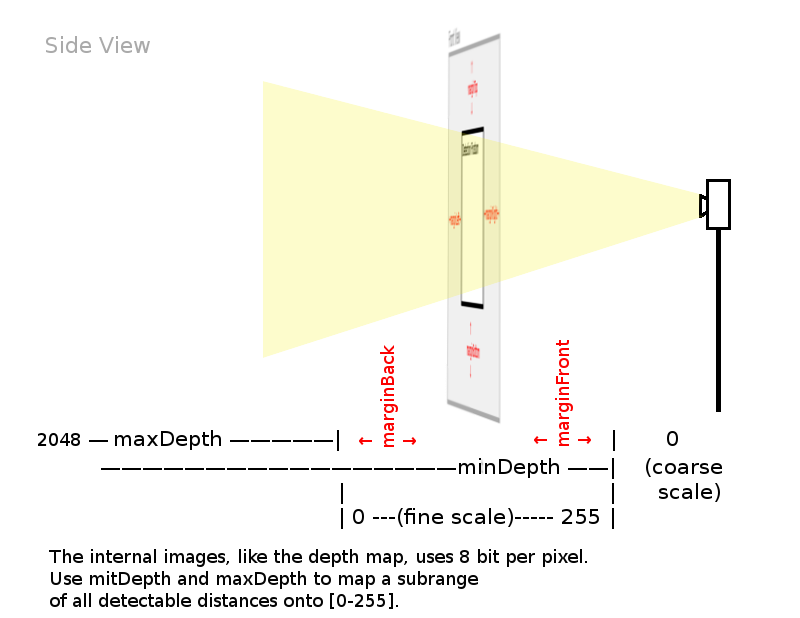
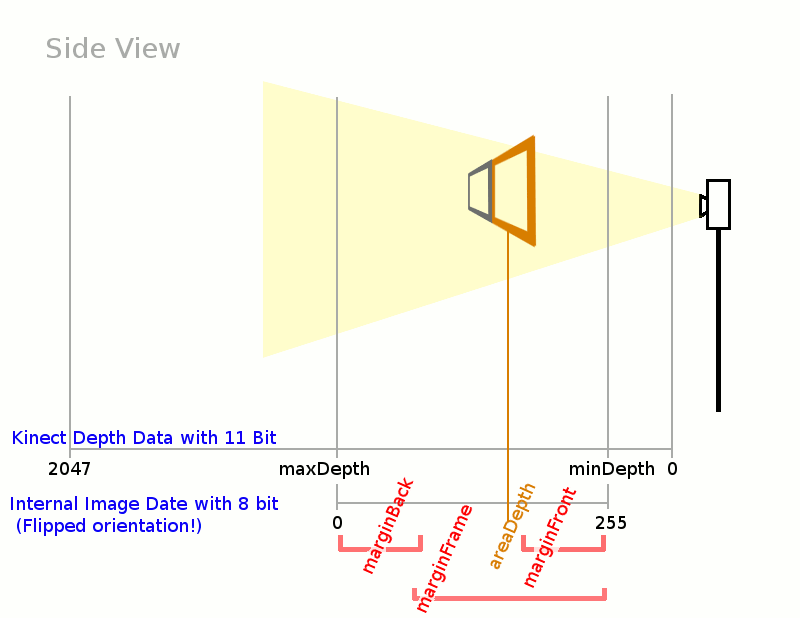
Split marginFront into two values: 1. marginFrame: Value will be used to evaluate binary image of frame. This was the previous use of arginFront, but named badly. 2. marginFront: Now selects the layer which will be interpreted as maximal depth. (On the small 0-255-range.)

diff --git a/html/index.html b/html/index.html
@@ -80,6 +80,7 @@ $(function(){
 			<div class="prop" id="marginBottom"></div>
 			<div class="prop" id="marginFront"></div>
 			<div class="prop" id="marginBack"></div>
+			<div class="prop" id="marginFrame"></div>
 			<div class="prop" id="TUIO_2Dcur"></div>
 			<div class="prop" id="TUIO_25Dblb"></div>
 			<div class="prop" id="areaThresh"></div>
@@ -130,10 +131,10 @@ $(function(){
 			</li>
 			<li>Use <i>margin[Left|Top|Right|Bottom]</i> to crop image.
 			</li>
-			<li>Select front mask image
+			<li>Select frame mask image
 			<ol>
 				<li>Select frame mask view (press '5')</li>
-				<li>Raise <i>marginFront</i> till the frame is white and all other parts still black.</li>
+				<li>Raise <i>marginFrame</i> till the frame is white and all other parts still black.</li>
 			</ol>
 			This black/white-image will used to find the 'holes' of your frame. Ensure that the areas are full enclosed.
 			</li>
@@ -144,6 +145,7 @@ $(function(){
 				</li>
 				<li>If the option <i>areaThresh</i> is enabled, the depth mask inside an area depends by its border pixel distances.</li>
 			</ol>
+			<li>Optionally increase <i>marginFront</i> to shrink the range [0+marginBack, 255-marginFront] which will be mapped on [0,1] in the 2.5D TUIO messages.
 			</li>
 			<li>Save Configuration</li>
 		</ol>

diff --git a/src/MyTuioServer25D.cpp b/src/MyTuioServer25D.cpp
@@ -6,7 +6,9 @@ inline long tuioSessionId(cBlob* b){
 		return 1000*b->areaid+b->handid;
 }
 
-static void localCoords(cBlob *pb, Area* pa, cv::Rect* roi, float *lx, float *ly, float *lz){
+static void localCoords(cBlob *pb, Area* pa,
+int minDepth, int maxDepth,
+cv::Rect* roi, float *lx, float *ly, float *lz){
 	//printf("Vars: (%f - (%i-%i))  / %i\n", pb->location.x, pa->rect.x, roi->x, pa->rect.width);
 	float x,y,z;
 	/*hflip coords. Where is the efficient position for flipping the whole input? convertTo? Is flip() fast?*/
@@ -23,10 +25,15 @@ static void localCoords(cBlob *pb, Area* pa, cv::Rect* roi, float *lx, float *ly
 			*ly = min((y+1)/2, 0.99999f);
 
 	/* Depth */
-	z = (pb->location.z - pa->depth)/25.0f/*100.0*/;
+	//z = (pb->location.z - pa->depth)/25.0f/*100.0*/;
+	const float m = max(minDepth,pa->depth);
+	const float S = max(1.0f, maxDepth-m);
+	z = (pb->location.z - m )/S;
+
 	*lz = (z<0)?0:((z<1)?z:0.99999f);
 }
-void MyTuioServer25D::send_blobs(std::vector<cBlob>& blobs, std::vector<Area>& areas, cv::Rect& roi){
+
+void MyTuioServer25D::send_blobs(std::vector<cBlob>& blobs, std::vector<Area>& areas, cv::Rect& roi, int minDepth, int maxDepth){
 
 	currentTime = TuioTime::getSessionTime();
 	initFrame(currentTime);
@@ -49,7 +56,7 @@ void MyTuioServer25D::send_blobs(std::vector<cBlob>& blobs, std::vector<Area>& a
 				break;
 			case BLOB_DOWN:
 				{
-					localCoords(pb,pa,&roi,&lx,&ly,&lz);
+					localCoords(pb, pa, minDepth, maxDepth, &roi, &lx, &ly, &lz);
 					//assert( pb->cursor25D == NULL );
 					if( pb->cursor25D == NULL ){
 						pb->cursor25D = addTuioCursor(lx,ly,lz,tuioSessionId(pb));
@@ -63,7 +70,7 @@ void MyTuioServer25D::send_blobs(std::vector<cBlob>& blobs, std::vector<Area>& a
 			case BLOB_MOVE:
 			default:
 				{
-					localCoords(pb,pa,&roi,&lx,&ly,&lz);
+					localCoords(pb, pa, minDepth, maxDepth, &roi, &lx, &ly, &lz);
 					//assert( pb->cursor25D != NULL );
 					if( pb->cursor25D == NULL ){
 						//printf("(2)Add cursor25D %i \n", (int)tuioSessionId(pb));

diff --git a/src/SettingKinect.cpp b/src/SettingKinect.cpp
@@ -92,6 +92,8 @@ cJSON *SettingKinect::genJson()
 				m_kinectProp.marginFront,0,255,100) );
 	cJSON_AddItemToArray(html, jsonIntField("marginBack",
 				m_kinectProp.marginBack,0,255,100) );
+	cJSON_AddItemToArray(html, jsonIntField("marginFrame",
+				m_kinectProp.marginFrame,0,255,100) );
 	cJSON_AddItemToArray(html, jsonCheckbox("TUIO_2Dcur",
 				m_tuioProtocols[0]) );
 	cJSON_AddItemToArray(html, jsonCheckbox("TUIO_25Dblb",
@@ -146,6 +148,7 @@ void SettingKinect::loadDefaults()
 	m_kinectProp.marginBottom=0;
 	m_kinectProp.marginFront=0;
 	m_kinectProp.marginBack=0;
+	m_kinectProp.marginFrame=128;
 	m_kinectProp.areaThresh = false;
 	m_kinectProp.directFiltering = false;
 	m_kinectProp.clipping = true;
@@ -214,6 +217,7 @@ int SettingKinect::update(cJSON *jsonNew, cJSON *jsonOld, int changes){
 		if( JsonConfig::update(nhtml,ohtml,"marginBottom",&m_kinectProp.marginBottom) ) changes|=MARGIN;
 		if( JsonConfig::update(nhtml,ohtml,"marginFront",&m_kinectProp.marginFront) ) changes|=MARGIN|FRONT_MASK;
 		if( JsonConfig::update(nhtml,ohtml,"marginBack",&m_kinectProp.marginBack) ) changes|=BACK_MASK;
+		if( JsonConfig::update(nhtml,ohtml,"marginFrame",&m_kinectProp.marginFrame) ) changes|=MARGIN|FRONT_MASK;
 
 		if( JsonConfig::updateCheckbox(nhtml,ohtml,"TUIO_2Dcur",&m_tuioProtocols[0]) ) changes|=TUIO_PROTOCOL;
 		if( JsonConfig::updateCheckbox(nhtml,ohtml,"TUIO_25Dblb",&m_tuioProtocols[1]) ) changes|=TUIO_PROTOCOL;

diff --git a/include/MyTuioServer25D.h b/include/MyTuioServer25D.h
@@ -14,28 +14,28 @@ using namespace TUIO;
 
 class MyTuioServer25D: public TuioServer25D {
 	public:
-		MyTuioServer25D(const char *host, int port): TuioServer25D(host, port), verbose(false){
-			verbose = true;
+		MyTuioServer25D(const char *host, int port): TuioServer25D(host, port){
 			currentTime = TuioTime::getSessionTime();
-			//tuioServer->enablePeriodicMessages();
+			//enablePeriodicMessages();
 			disablePeriodicMessages();
 		};
-		MyTuioServer25D(): TuioServer25D(), verbose(false){
-			verbose = true;
+		MyTuioServer25D(): TuioServer25D(){
 			currentTime = TuioTime::getSessionTime();
-			//tuioServer->enablePeriodicMessages();
+			//enablePeriodicMessages();
 			disablePeriodicMessages();
 		};
 		~MyTuioServer25D() { };
-		void send_blobs(std::vector<cBlob>& blobs, std::vector<Area>& areas, cv::Rect& roi);
+		/* minDepth and maxDepth:
+		 *    Controls scaling of depth values. 
+		 *    Normalization (mapping on [0,1) will be applied on
+		 *    [max(minDepth,area.depth), maxDepth).
+		*/
+		void send_blobs(std::vector<cBlob>& blobs, std::vector<Area>& areas, cv::Rect& roi, int minDepth=0, int maxDepth=255);
 
 private:
 		TuioCursor25D *cursor;
 		TuioTime currentTime;
-		bool verbose;
-
 		//void processEvents();
-
 };
 
 #endif

diff --git a/include/MyTuioServer.h b/include/MyTuioServer.h
@@ -14,15 +14,15 @@ using namespace TUIO;
 
 class MyTuioServer: public TuioServer {
 	public:
-		MyTuioServer(const char *host, int port): TuioServer(host, port), verbose(false){
-			verbose = true;
+		MyTuioServer(const char *host, int port): TuioServer(host, port){
 			currentTime = TuioTime::getSessionTime();
-			//tuioServer->enablePeriodicMessages();
+			//enablePeriodicMessages();
+			disablePeriodicMessages();
 		};
-		MyTuioServer(): TuioServer(), verbose(false){
-			verbose = true;
+		MyTuioServer(): TuioServer(){
 			currentTime = TuioTime::getSessionTime();
-			//tuioServer->enablePeriodicMessages();
+			//enablePeriodicMessages();
+			disablePeriodicMessages();
 		};
 		~MyTuioServer() { };
 		void send_blobs(std::vector<cBlob>& blobs, std::vector<Area>& areas, cv::Rect& roi);
@@ -30,10 +30,7 @@ class MyTuioServer: public TuioServer {
 private:
 		TuioCursor *cursor;
 		TuioTime currentTime;
-		bool verbose;
-
 		//void processEvents();
-
 };
 
 #endif

diff --git a/src/ImageAnalysis.cpp b/src/ImageAnalysis.cpp
@@ -299,9 +299,9 @@ void ImageAnalysis::genFrontMask(){
 		Mat Kernel2(Size(7, 7), CV_8UC1); Kernel2.setTo(Scalar(1));
 		dilate(dfRoi, tmp, Kernel); 
 		erode(tmp, tmp, Kernel2); 
-		//threshold(dfRoi, dfRoi,255-m_pSettingKinect->m_kinectProp.marginFront,255,THRESH_BINARY);
+		//threshold(dfRoi, dfRoi,255-m_pSettingKinect->m_kinectProp.marginFrame,255,THRESH_BINARY);
 		//agRoi = min/*max*/(agRoi,dfRoi);
-		threshold(tmp, tmp,255-m_pSettingKinect->m_kinectProp.marginFront,1,THRESH_BINARY_INV);
+		threshold(tmp, tmp,255-m_pSettingKinect->m_kinectProp.marginFrame,1,THRESH_BINARY_INV);
 		agRoi -= tmp;
 	}
 	/* convert agRoi back to 0-255-Img */

diff --git a/src/main.cpp b/src/main.cpp
@@ -492,6 +492,8 @@ int main(int argc, char **argv) {
 				die = true;
 			}
 			settingKinect.unlockMode(mode);
+			// Idle
+			usleep(50000);		
 		}
 
 		// Idle and wait on user input

diff --git a/include/SettingKinect.h b/include/SettingKinect.h
@@ -33,6 +33,7 @@ struct KinectProperties{
 	int marginBottom;
 	int marginFront;
 	int marginBack;
+	int marginFrame;
 	bool areaThresh;
 	bool directFiltering;
 	bool clipping;
